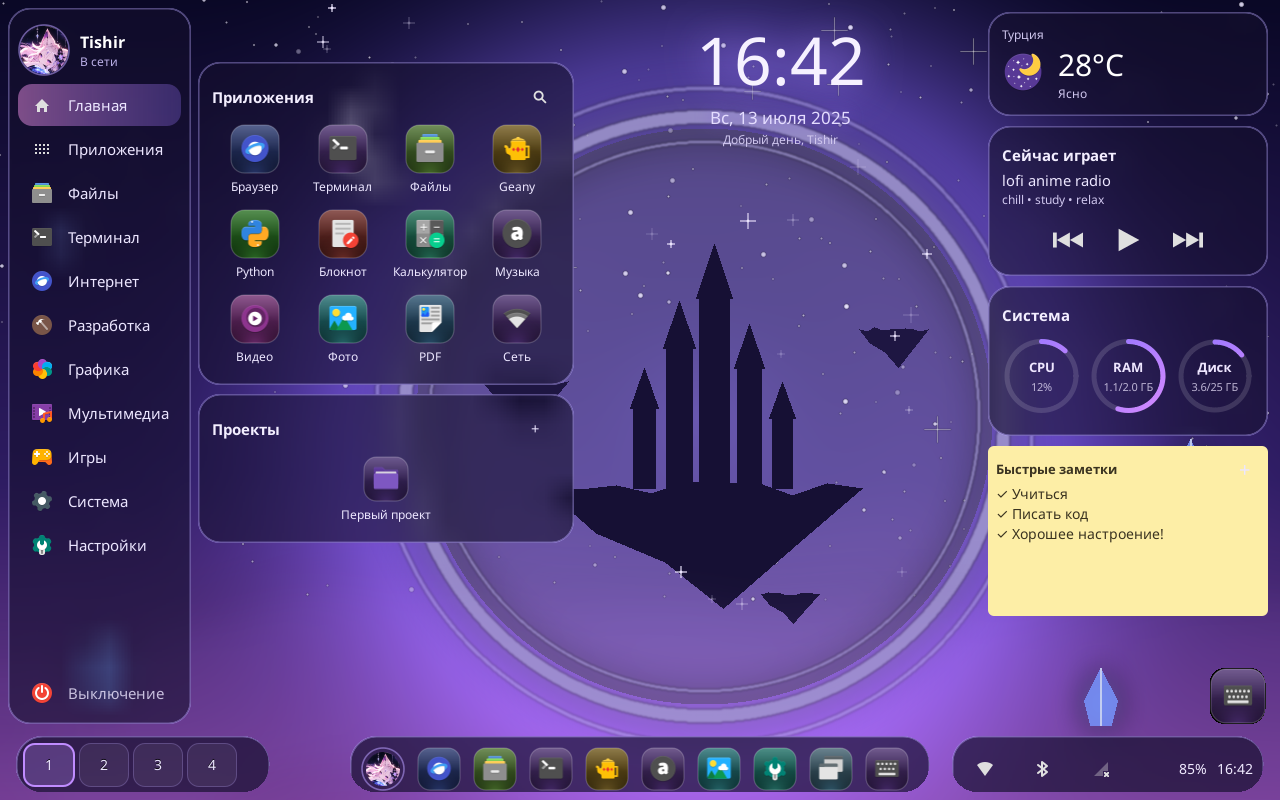
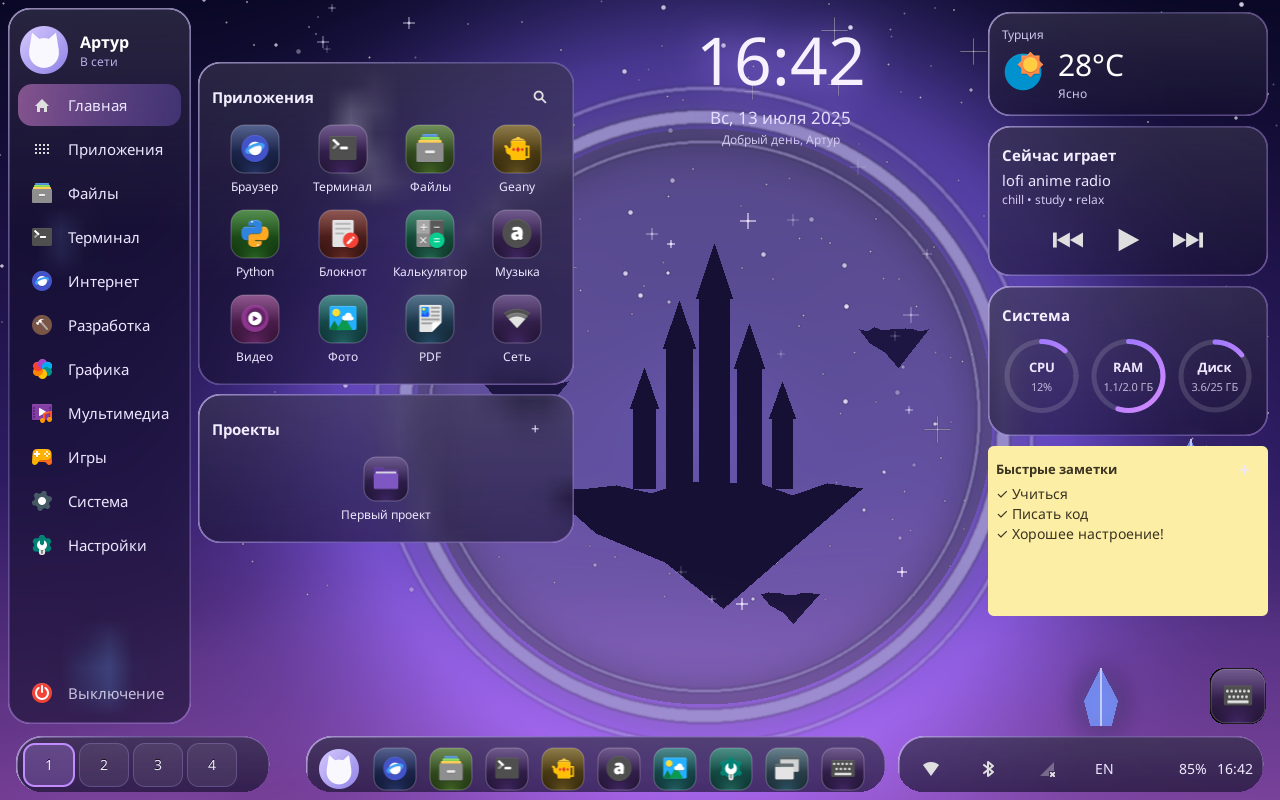
0.13: boot progress bar splash, redesigned lock screen, glass sheen
Claude-Session: https://claude.ai/code/session_01T7BLqeB8ahMcZB2GPhi1xu

diff --git a/tools/gen_splash.py b/tools/gen_splash.py
@@ -23,9 +23,18 @@ img.paste(lg, ((W - side) // 2, 190), mask)
 dr = ImageDraw.Draw(img)
 def centered(text, yy, f, fill):
     w = dr.textlength(text, font=f); dr.text(((W - w) / 2, yy), text, font=f, fill=fill)
-centered('планшет A73 · запуск системы…', 1030, font(28, False), (190, 182, 225))
-for i in range(5):                                       # progress dots
-    r = 7 if i != 2 else 10; x = W / 2 + (i - 2) * 38; dr.ellipse([x - r, 1110 - r, x + r, 1110 + r], fill=(200, 180, 255) if i == 2 else (120, 100, 190))
+centered('запуск системы…', 1040, font(26, False), (170, 160, 210))
+TX0, TX1, TY, TH = 140, 660, 1112, 14                    # progress track (stage 2 fills it step by step, see usr/sbin/init)
+def track(d, filled):
+    d.rounded_rectangle([TX0, TY, TX1, TY + TH], radius=TH // 2, fill=(40, 32, 78))
+    if filled > 0:
+        x = TX0 + int((TX1 - TX0) * filled)
+        for i in range(TX0, x):                          # purple -> pink gradient
+            t = (i - TX0) / (TX1 - TX0); c = (int(150 + 90 * t), int(110 - 20 * t), int(255 - 40 * t))
+            d.line([i, TY + 2, i, TY + TH - 2], fill=c)
+        d.ellipse([x - TH // 2 + 1, TY + 1, x + TH // 2 - 1, TY + TH - 1], fill=(int(150 + 90 * filled), int(110 - 20 * filled), int(255 - 40 * filled)))
+        d.ellipse([TX0 + 1, TY + 1, TX0 + TH - 1, TY + TH - 1], fill=(150, 110, 255))
+track(dr, 0)
 img = img.convert('RGBA')
 rgb = np.asarray(img.convert('RGB'))
 bgra = np.dstack([rgb[..., 2], rgb[..., 1], rgb[..., 0], np.full((H, W), 255, np.uint8)]).tobytes()
@@ -35,3 +44,18 @@ for name, data in (('splash.32.gz', bgra), ('splash.16.gz', rgb565)):
     with gzip.GzipFile(os.path.join(OUT, name), 'wb', 9, mtime=0) as f: f.write(data)
     print(name, os.path.getsize(os.path.join(OUT, name)), 'bytes (raw %d)' % len(data))
 img.convert('RGB').save('/tmp/splash_preview.png') if os.path.isdir('/tmp') else None
+
+# ---- progress strips: rows TY-6 .. TY+TH+6 of the same picture, 9 steps (0..8) in both pixel formats ----
+BOOT = os.path.join(os.path.dirname(os.path.dirname(os.path.abspath(__file__))), 'rootfs', 'overlay', 'usr', 'share', 'rembley', 'boot')
+os.makedirs(BOOT, exist_ok=True)
+Y0, Y1 = TY - 6, TY + TH + 6
+print('strip rows %d..%d (height %d)' % (Y0, Y1, Y1 - Y0))
+for n in range(9):
+    im = img.convert('RGB').copy(); track(ImageDraw.Draw(im), n / 8)
+    crop = np.asarray(im.crop((0, Y0, W, Y1)))
+    b32 = np.dstack([crop[..., 2], crop[..., 1], crop[..., 0], np.full(crop.shape[:2], 255, np.uint8)]).tobytes()
+    r5, g6, b5 = (crop[..., 0] >> 3).astype(np.uint16), (crop[..., 1] >> 2).astype(np.uint16), (crop[..., 2] >> 3).astype(np.uint16)
+    b16 = ((r5 << 11) | (g6 << 5) | b5).astype('<u2').tobytes()
+    for bpp, data in ((32, b32), (16, b16)):
+        with gzip.GzipFile(os.path.join(BOOT, 'bar-%d.%d.gz' % (n, bpp)), 'wb', 9, mtime=0) as f: f.write(data)
+open(os.path.join(BOOT, 'row'), 'w').write('%d\n' % Y0)

diff --git a/rootfs/overlay/usr/local/lib/rembley/rembleyui.py b/rootfs/overlay/usr/local/lib/rembley/rembleyui.py
@@ -52,6 +52,15 @@ label { color: #ece6ff; }
 .fab:active { background-color: rgba(255,255,255,0.18); }
 .mbtn { background-image: none; background-color: transparent; border: none; box-shadow: none; padding: 2px 10px; min-height: 40px; }
 .mbtn:active { background-color: rgba(255,255,255,0.18); border-radius: 14px; }
+.pad { background-image: none; background-color: rgba(255,255,255,0.10); border: 1px solid rgba(200,180,255,0.30); border-radius: 36px;
+       min-width: 72px; min-height: 72px; padding: 0; color: #f6f1ff; font-size: 28px; font-weight: 300; box-shadow: none; }
+.pad:active { background-color: rgba(190,140,255,0.45); border-color: rgba(230,200,255,0.8); }
+.pad-ok { background-color: rgba(170,110,255,0.40); border-color: rgba(220,190,255,0.7); }
+.pad-small { font-size: 22px; }
+.lockclock { font-size: 84px; font-weight: 200; color: #fbf8ff; text-shadow: 0 0 30px rgba(170,140,255,0.9); }
+.lockhello { font-size: 20px; color: #efe8ff; text-shadow: 0 0 10px rgba(120,90,220,0.9); }
+.lockhint { font-size: 15px; color: #cfc6ee; }
+.lockbtn { background-image: linear-gradient(90deg, rgba(196,120,196,0.75), rgba(120,92,205,0.65)); border: none; border-radius: 30px; color: #fff; font-size: 20px; min-height: 60px; padding: 0 40px; box-shadow: 0 0 22px rgba(160,110,255,0.55); }
 entry.rl-search { background-color: rgba(255,255,255,0.12); color: #fff; border-radius: 14px; border: 1px solid rgba(190,170,255,0.3); min-height: 38px; }
 """
 
@@ -109,9 +118,12 @@ class Glass(Gtk.Box):
         cr.save(); rrect(cr, 0.5, 0.5, w - 1, h - 1, self.radius); cr.clip_preserve()
         if blur is not None:
             cr.set_source_surface(blur, -(pos[0] + ox), -(pos[1] + oy)); cr.paint()
-        cr.set_source_rgba(*self.tint); cr.paint(); cr.restore()
+        cr.set_source_rgba(*self.tint); cr.paint()
+        sheen = cairo.LinearGradient(0, 0, 0, min(h, 220)); sheen.add_color_stop_rgba(0, 1, 1, 1, 0.10); sheen.add_color_stop_rgba(1, 1, 1, 1, 0)   # light falling on glass
+        cr.set_source(sheen); cr.paint(); cr.restore()
         rrect(cr, 0.75, 0.75, w - 1.5, h - 1.5, self.radius)
-        cr.set_source_rgba(0.72, 0.66, 1.0, 0.38); cr.set_line_width(1.3); cr.stroke()
+        edge = cairo.LinearGradient(0, 0, w, h); edge.add_color_stop_rgba(0, 0.86, 0.80, 1.0, 0.62); edge.add_color_stop_rgba(0.5, 0.72, 0.66, 1.0, 0.28); edge.add_color_stop_rgba(1, 0.80, 0.62, 1.0, 0.42)
+        cr.set_source(edge); cr.set_line_width(1.3); cr.stroke()
         return Gtk.Box.do_draw(self, cr)
 
 

diff --git a/CHANGELOG.md b/CHANGELOG.md
@@ -1,5 +1,8 @@
 # Changelog
 
+## 0.13
+- Новая загрузка: заставка с полосой прогресса, которая заполняется на этапах запуска (stage 2 дорисовывает полосу прямо в framebuffer); экран блокировки с PIN-точками, круглыми кнопками, тряской при ошибке; «стеклянные» панели с бликом и градиентной рамкой
+
 ## 0.12
 - rembley_touch: поиск тача по свойствам и реальному диапазону; rembley-net preflight; ожидание узла в automount
 
